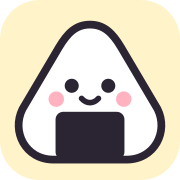
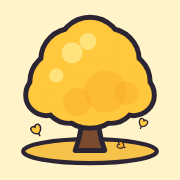
App 圖示改成銀杏樹（軟Q描邊）
Claude-Session: https://claude.ai/code/session_01DPbMHbpDGWxBT24Yr8ESWb

diff --git a/src/app/App.tsx b/src/app/App.tsx
@@ -21,7 +21,6 @@ import { ListImagePage, ListItemForm, ListPage } from '../pages/Lists.tsx';
 import { LegForm, LegPage, MapViewPage } from '../pages/Routes.tsx';
 import { TicketForm, TicketPage } from '../pages/TicketPage.tsx';
 import { CopyTripPage } from '../pages/CopyTripPage.tsx';
-import { Mascot } from '../ui/Mascot.tsx';
 
 const TAB_KEYS: TabKey[] = ['plan', 'lists', 'routes', 'tickets', 'settings'];
 let openedLastTrip = false;
@@ -101,7 +100,7 @@ export function App() {
   let content: ReactNode;
   if (!backend.configured) content = <SetupNeededPage />;
   else if (error) content = <div className="boot-error">無法開啟手機上的資料：{error}<br />請確認沒有使用無痕模式。</div>;
-  else if (!ready) content = <div className="boot"><Mascot size={80} />家庭旅行</div>;
+  else if (!ready) content = <div className="boot"><img src="./icon.svg" width={88} height={88} alt="" />家庭旅行</div>;
   else content = <Routes />;
 
   return (
